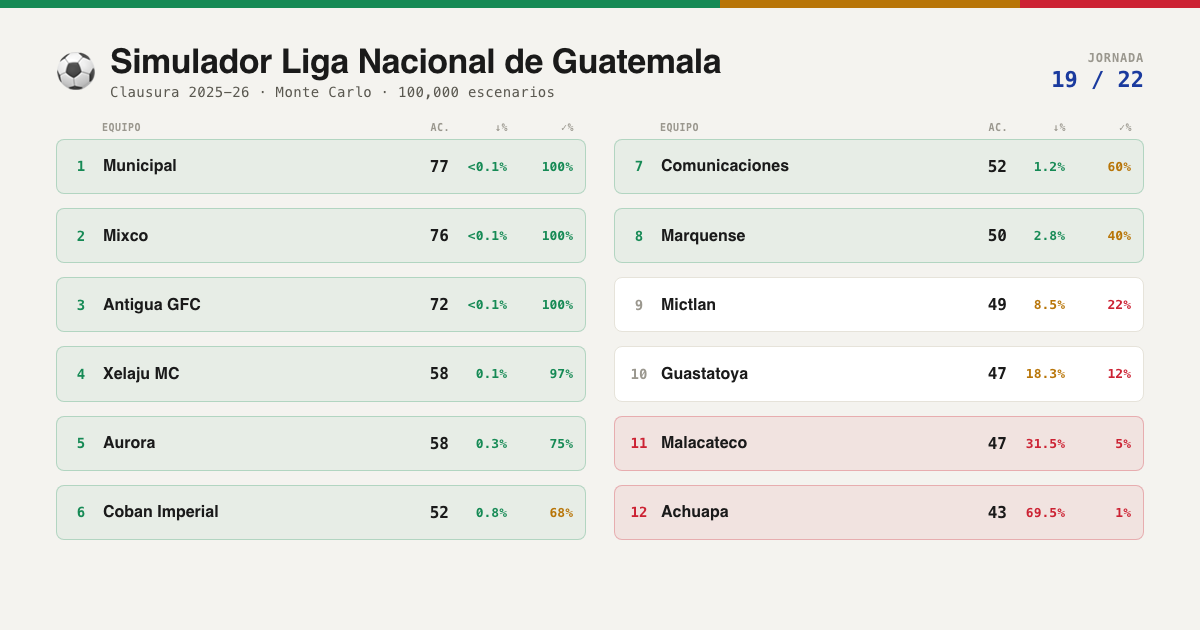
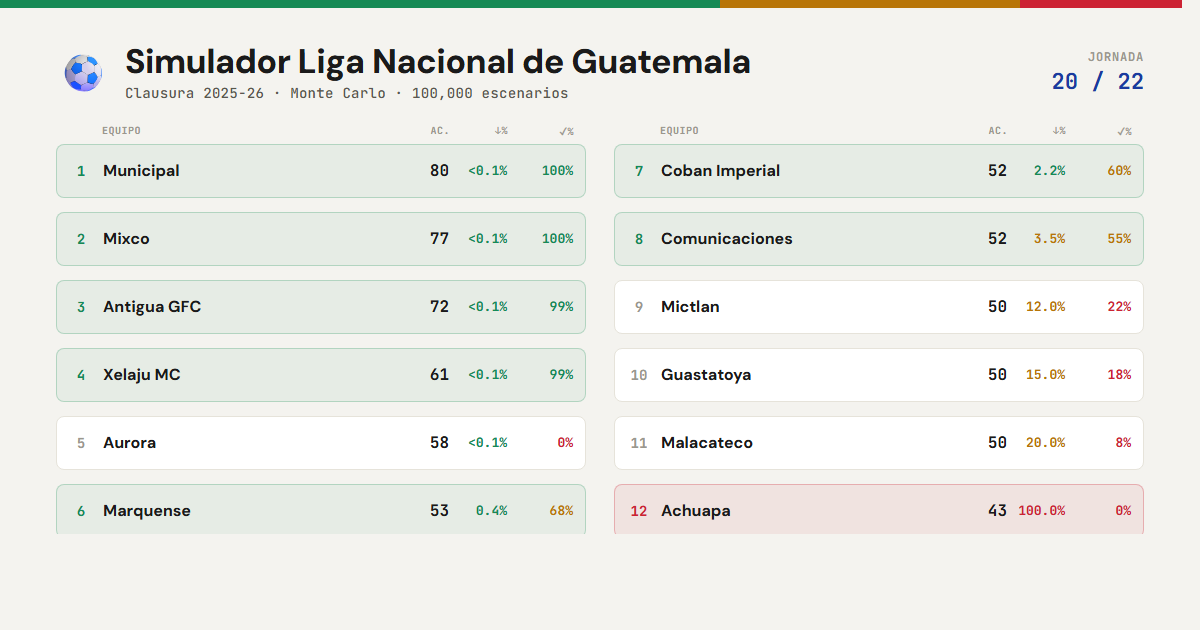
Add files via upload

diff --git a/index.html b/index.html
@@ -48,10 +48,10 @@
 <body>
 <div class="banner" id="banner"><div class="b-sel-wrap"><span class="b-ball">⚽</span><select class="b-sel" id="bTeam" onchange="setTeam(this.value)" aria-label="Equipo"></select></div><div class="b-metrics"><div class="b-metric"><span class="b-lb m">Descenso</span><span class="b-v m" id="bDesc">—</span></div><div class="b-metric"><span class="b-lb m">Top 8</span><span class="b-v m" id="bClas">—</span></div><span class="b-s m"><span class="b-d on" id="bD"></span><span id="bS">cargando</span></span></div></div>
 <div class="main">
-<div class="intro"><h1>Simulador Liga Nacional de Guatemala</h1><p>Elegí tu equipo arriba y mirá su probabilidad de <strong>descender</strong> o de <strong>clasificar al top 8</strong>. Faltan <strong>3 jornadas</strong> del Clausura 2026; los <strong>2 últimos</strong> de la acumulada bajan. <strong>100,000 escenarios</strong> simulados. Tocá las columnas para ordenar, un equipo para ver su calendario, o la pestaña <strong>Partidos</strong> para fijar resultados.</p></div>
+<div class="intro"><h1>Simulador Liga Nacional de Guatemala</h1><p>Elegí tu equipo arriba y mirá su probabilidad de <strong>descender</strong> o de <strong>clasificar al top 8</strong>. Faltan <strong>2 jornadas</strong> del Clausura 2026; los <strong>2 últimos</strong> de la acumulada bajan. <strong>100,000 escenarios</strong> simulados. Tocá las columnas para ordenar, un equipo para ver su calendario, o la pestaña <strong>Partidos</strong> para fijar resultados.</p></div>
 <div class="mtabs"><div class="mt on" onclick="mTab(0,this)">Posiciones</div><div class="mt" onclick="mTab(1,this)">Partidos</div></div>
 <div id="tc0">
-<div class="legend"><span><b>Ap.</b> Apertura (22J)</span><span><b>Cl.</b> Clausura actual (19J)</span><span class="hide-m"><b>Cl.E</b> Clausura esperada (simulado)</span><span><b>Ac.</b> Acumulada actual</span><span><b>Ac.E</b> Acumulada esperada</span><span><b>↓%</b> Prob. descenso</span><span><b>✓%</b> Prob. clasificación top 8</span></div>
+<div class="legend"><span><b>Ap.</b> Apertura (22J)</span><span><b>Cl.</b> Clausura actual (20J)</span><span class="hide-m"><b>Cl.E</b> Clausura esperada (simulado)</span><span><b>Ac.</b> Acumulada actual</span><span><b>Ac.E</b> Acumulada esperada</span><span><b>↓%</b> Prob. descenso</span><span><b>✓%</b> Prob. clasificación top 8</span></div>
 <div class="tw"><table class="tbl"><thead><tr id="tH"></tr></thead><tbody id="tB"></tbody></table></div>
 </div>
 <div id="tc1" style="display:none">
@@ -67,31 +67,31 @@ P(empate)      = 1.61 / T
 P(visita gana) = S_visita / T
 T = S_local × 3.02 + 1.61 + S_visita</div>
 <p>Constantes calibradas con 234 partidos reales de la Liga Nacional (Apertura 2025 + Clausura 2026): <code>58.1% victorias locales, 22.6% empates, 19.2% victorias visitantes</code> (fuentes: SoccerStats.com, FotMob).</p>
-<p><strong>Simulación:</strong> 100,000 corridas de los 18 partidos restantes. En cada una se calcula la tabla final.</p>
+<p><strong>Simulación:</strong> 100,000 corridas de los 12 partidos restantes. En cada una se calcula la tabla final.</p>
 <p><strong>Impacto:</strong> Para cada partido no fijado, se corren 4K sims forzando cada resultado y se mide el delta en prob. de descenso del equipo seleccionado.</p>
 <p><strong>Limitaciones:</strong> No captura motivación, lesiones, suspensiones ni tácticas. Asume forma estacionaria.</p>
 </div></div>
-<div class="footer">Clausura 2026, J19 · Fixtures verificados con Liga Nacional y FotMob<br>Monte Carlo 100K sims · Modelo calibrado con 234 partidos reales (Apertura + Clausura) · Estimaciones probabilísticas, no predicciones.</div>
+<div class="footer">Clausura 2026, J20 · Fixtures verificados con Liga Nacional y FotMob<br>Monte Carlo 100K sims · Modelo calibrado con 234 partidos reales (Apertura + Clausura) · Estimaciones probabilísticas, no predicciones.</div>
 <script>
 // Clausura results per matchday for weighted strength
-// W=3,D=1,L=0 for each team across 18 matchdays
+// W=3,D=1,L=0 for each team across 20 matchdays
 const RESULTS={
-"Municipal":[3,3,1,3,0,3,3,1,0,3,3,1,3,3,0,1,3,1,0],
-"Comunicaciones":[3,1,0,3,3,3,3,3,3,0,0,0,0,3,1,0,3,1,3],
-"Xelaju":[1,3,3,3,1,0,0,3,3,3,1,3,3,1,0,1,0,3,0],
-"Cobán":[1,3,0,0,3,3,3,3,0,3,3,0,1,0,1,0,1,1,1],
-"Mixco":[3,0,3,1,1,3,3,0,3,3,1,3,3,0,1,3,0,3,3],
-"Antigua":[1,1,0,3,3,0,3,3,0,0,3,3,3,1,3,0,3,3,3],
-"Marquense":[0,3,0,0,1,3,0,3,3,1,3,0,3,0,3,3,3,0,3],
-"Mictlan":[3,0,3,0,0,3,1,0,3,3,3,1,0,3,0,3,0,1,0],
-"Guastatoya":[0,3,1,3,0,1,1,3,0,1,3,3,1,1,0,1,0,3,1],
-"Aurora":[0,0,1,1,1,0,0,0,3,0,0,1,3,3,1,3,1,0,0],
-"Malacateco":[1,1,1,0,3,0,0,1,0,0,0,0,1,0,0,0,3,0,0],
-"Achuapa":[3,1,3,1,0,0,1,0,0,1,0,3,0,0,0,0,0,0,3]
+"Municipal":[3,3,1,3,0,3,3,1,0,3,3,1,3,3,0,1,3,1,0,3],
+"Comunicaciones":[3,1,0,3,3,3,3,3,3,0,0,0,0,3,1,0,3,1,3,0],
+"Xelaju":[1,3,3,3,1,0,0,3,3,3,1,3,3,1,0,1,0,3,0,3],
+"Cobán":[1,3,0,0,3,3,3,3,0,3,3,0,1,0,1,0,1,1,1,0],
+"Mixco":[3,0,3,1,1,3,3,0,3,3,1,3,3,0,1,3,0,3,3,1],
+"Antigua":[1,1,0,3,3,0,3,3,0,0,3,3,3,1,3,0,3,3,3,0],
+"Marquense":[0,3,0,0,1,3,0,3,3,1,3,0,3,0,3,3,3,0,3,3],
+"Mictlan":[3,0,3,0,0,3,1,0,3,3,3,1,0,3,0,3,0,1,0,1],
+"Guastatoya":[0,3,1,3,0,1,1,3,0,1,3,3,1,1,0,1,0,3,1,3],
+"Aurora":[0,0,1,1,1,0,0,0,3,0,0,1,3,3,1,3,1,0,0,0],
+"Malacateco":[1,1,1,0,3,0,0,1,0,0,0,0,1,0,0,0,3,0,0,3],
+"Achuapa":[3,1,3,1,0,0,1,0,0,1,0,3,0,0,0,0,0,0,3,0]
 };
-const FORM={"Municipal":['D','W','W','D','L'],"Comunicaciones":['L','L','W','D','W'],"Xelaju":['W','D','L','W','L'],"Cobán":['D','L','D','D','D'],"Mixco":['D','W','L','W','W'],"Antigua":['W','L','W','W','W'],"Marquense":['L','W','W','L','W'],"Mictlan":['W','W','L','D','L'],"Guastatoya":['D','D','L','W','D'],"Aurora":['D','W','D','L','L'],"Malacateco":['D','L','W','L','L'],"Achuapa":['L','L','L','L','W']};
+const FORM={"Municipal":['W','W','D','L','W'],"Comunicaciones":['L','W','D','W','L'],"Xelaju":['D','L','W','L','W'],"Cobán":['L','D','D','D','L'],"Mixco":['W','L','W','W','D'],"Antigua":['L','W','W','W','L'],"Marquense":['W','W','L','W','W'],"Mictlan":['W','L','D','L','D'],"Guastatoya":['D','L','W','D','W'],"Aurora":['W','D','L','L','L'],"Malacateco":['L','W','L','L','W'],"Achuapa":['L','L','L','W','L']};
 
-const TM={"Municipal":{ap:48,cl:29,pj:19,gf:25,ga:20},"Comunicaciones":{ap:20,cl:32,pj:19,gf:27,ga:24},"Xelaju":{ap:28,cl:30,pj:19,gf:26,ga:16},"Cobán":{ap:23,cl:29,pj:19,gf:25,ga:17},"Mixco":{ap:44,cl:32,pj:19,gf:24,ga:21},"Antigua":{ap:42,cl:30,pj:19,gf:30,ga:23},"Marquense":{ap:23,cl:27,pj:19,gf:23,ga:22},"Mictlan":{ap:24,cl:25,pj:19,gf:20,ga:30},"Guastatoya":{ap:22,cl:25,pj:19,gf:22,ga:20},"Aurora":{ap:39,cl:19,pj:19,gf:13,ga:24},"Malacateco":{ap:31,cl:16,pj:19,gf:15,ga:23},"Achuapa":{ap:25,cl:18,pj:19,gf:14,ga:24}};
+const TM={"Municipal":{ap:48,cl:32,pj:20,gf:26,ga:20},"Comunicaciones":{ap:20,cl:32,pj:20,gf:27,ga:25},"Xelaju":{ap:28,cl:33,pj:20,gf:29,ga:16},"Cobán":{ap:23,cl:29,pj:20,gf:25,ga:19},"Mixco":{ap:44,cl:33,pj:20,gf:26,ga:23},"Antigua":{ap:42,cl:30,pj:20,gf:30,ga:26},"Marquense":{ap:23,cl:30,pj:20,gf:24,ga:22},"Mictlan":{ap:24,cl:26,pj:20,gf:22,ga:32},"Guastatoya":{ap:22,cl:28,pj:20,gf:25,ga:20},"Aurora":{ap:39,cl:19,pj:20,gf:13,ga:25},"Malacateco":{ap:31,cl:19,pj:20,gf:17,ga:23},"Achuapa":{ap:25,cl:18,pj:20,gf:14,ga:27}};
 
 // Weighted strength: exponential decay, recent matches weigh more
 const DECAY=0.92;
@@ -107,7 +107,6 @@ Object.entries(TM).forEach(([k,v])=>{
 });
 
 const FX=[
-{h:"Aurora",a:"Marquense",j:20},{h:"Guastatoya",a:"Antigua",j:20},{h:"Municipal",a:"Comunicaciones",j:20},{h:"Mictlan",a:"Mixco",j:20},{h:"Malacateco",a:"Cobán",j:20},{h:"Xelaju",a:"Achuapa",j:20},
 {h:"Comunicaciones",a:"Guastatoya",j:21},{h:"Marquense",a:"Municipal",j:21},{h:"Mixco",a:"Aurora",j:21},{h:"Cobán",a:"Achuapa",j:21},{h:"Mictlan",a:"Xelaju",j:21},{h:"Antigua",a:"Malacateco",j:21},
 {h:"Aurora",a:"Mictlan",j:22},{h:"Xelaju",a:"Cobán",j:22},{h:"Municipal",a:"Mixco",j:22},{h:"Achuapa",a:"Antigua",j:22},{h:"Malacateco",a:"Comunicaciones",j:22},{h:"Guastatoya",a:"Marquense",j:22}
 ];
